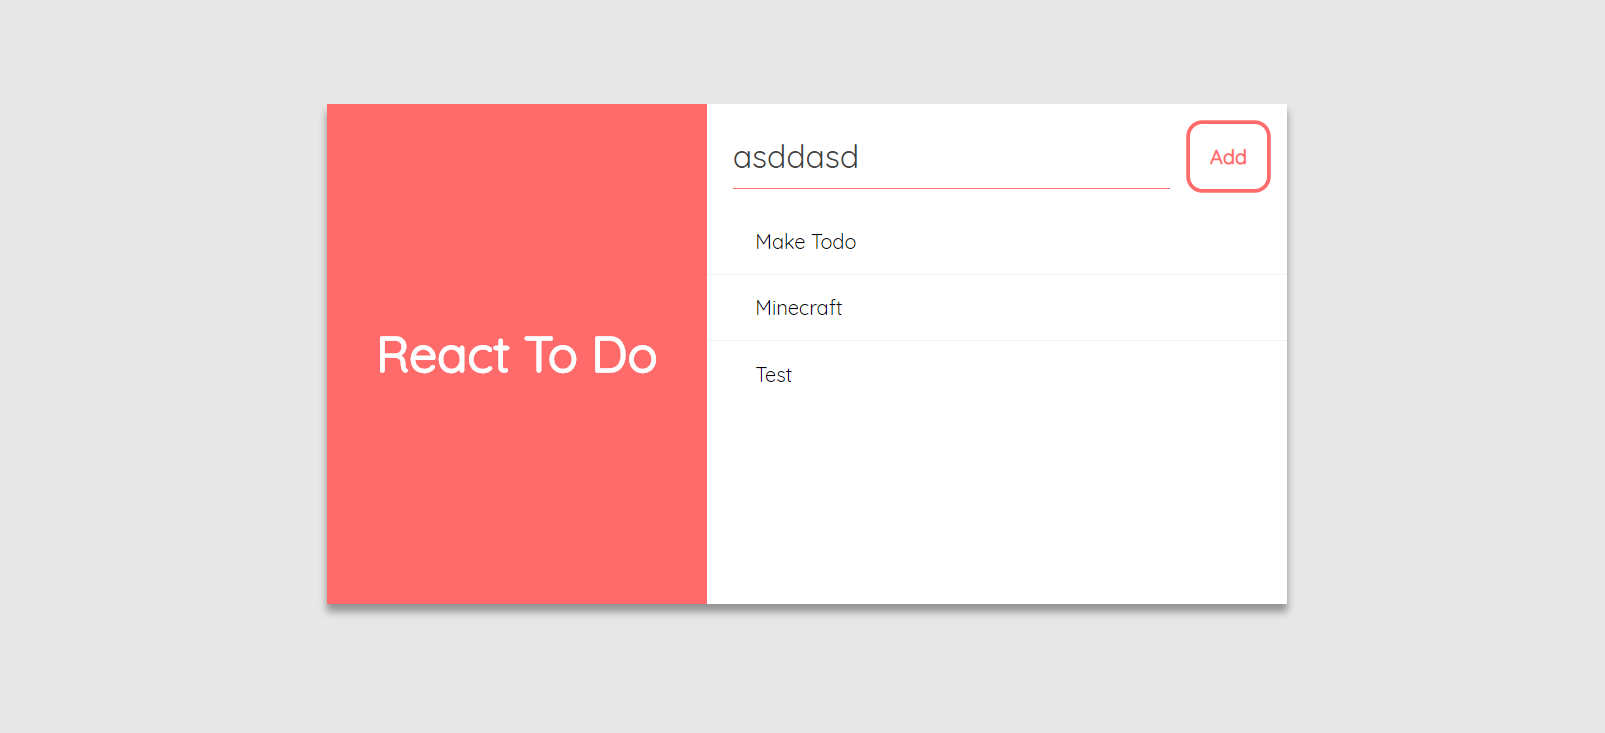
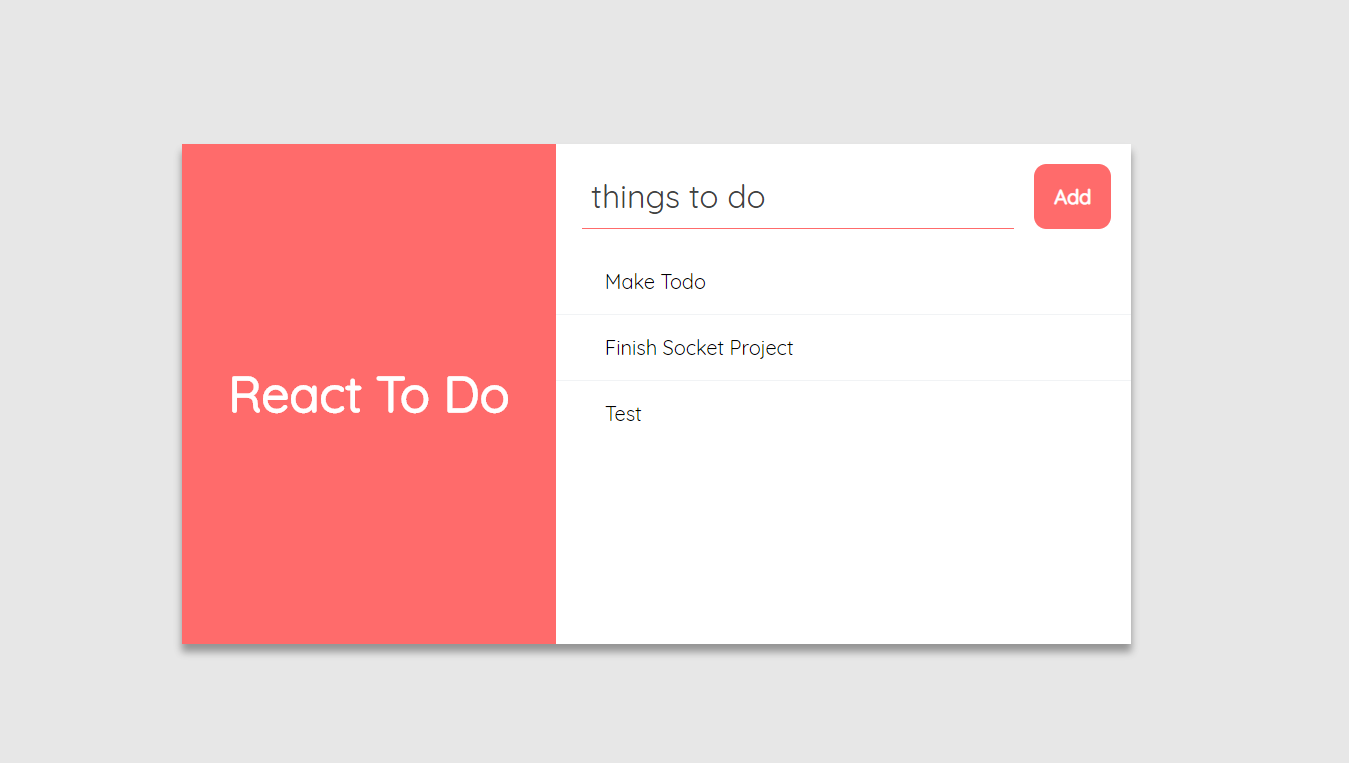
qrwv

Changed region(s): [[0.1245, 0.1201, 0.8406, 0.8704]]

diff --git a/src/components/List.js b/src/components/List.js
@@ -8,7 +8,7 @@ class List extends Component {
     return (
       <div>
         <Item text="Make Todo" />
-        <Item text="Minecraft" />
+        <Item text="Finish Socket Project" />
         <Item text="Test" />
       </div>
     );
